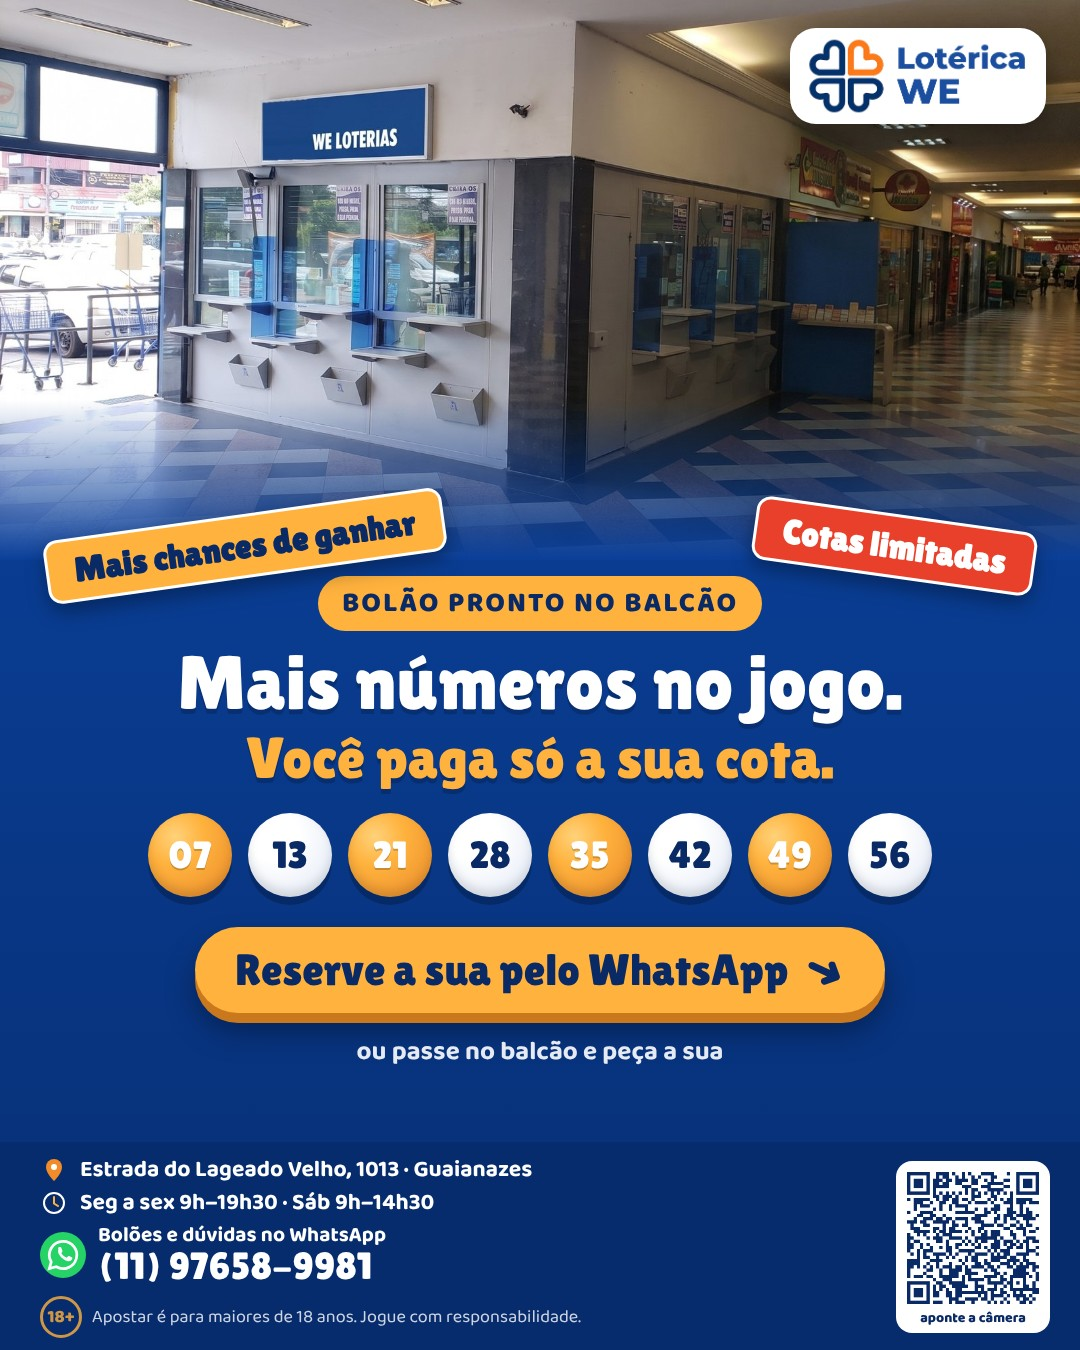
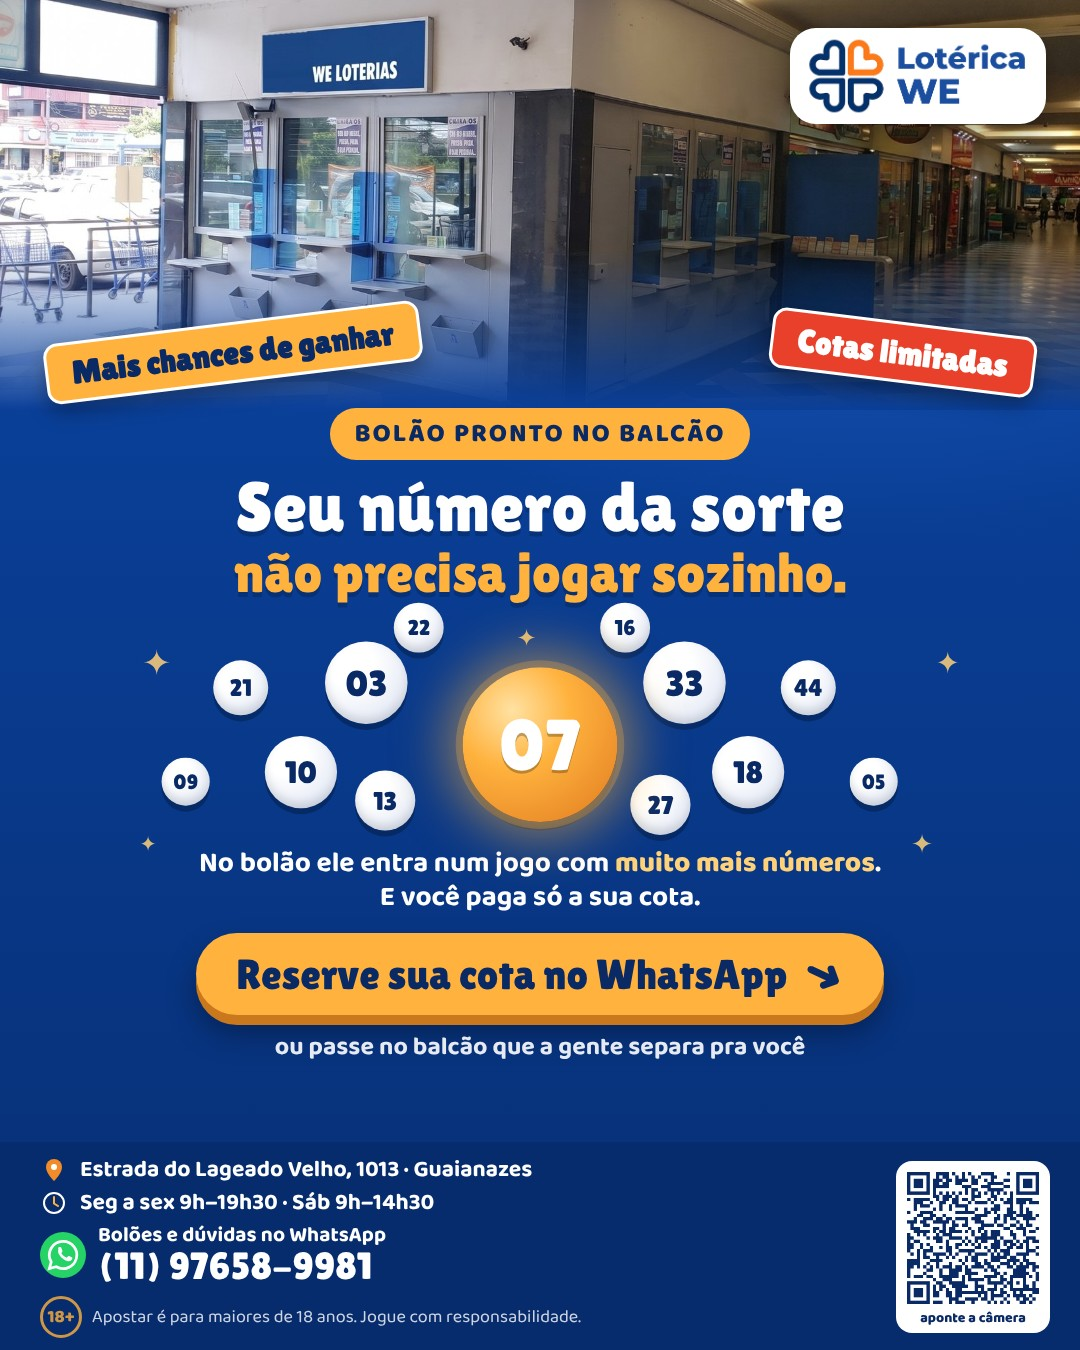
Peça de bolões: conceito "Seu número da sorte não precisa jogar sozinho"
Claude-Session: https://claude.ai/code/session_01Bxe7GpT3JXbyMSz1b7a84R

diff --git a/pecas-card/bolao_praca-xi.html b/pecas-card/bolao_praca-xi.html
@@ -44,15 +44,32 @@ body{padding:0;align-items:stretch;width:1080px;height:1350px}
 .btn{margin-top:30px;background:#FFB23E;color:#0A2A66;font-family:L;font-size:44px;padding:16px 40px;border-radius:60px;box-shadow:0 10px 0 #C9781E,0 18px 30px rgba(0,0,0,.35);display:flex;align-items:center;gap:18px}
 .btn b{font-size:46px;transform:rotate(25deg);display:inline-block}
 .ou{margin-top:18px;font-weight:700;font-size:26px;opacity:.9}
-.mk .tag.tl{right:auto;left:44px;transform:rotate(-8deg);background:#FFB23E;color:#0A2A66}</style></head><body>
+.mk .tag.tl{right:auto;left:44px;transform:rotate(-8deg);background:#FFB23E;color:#0A2A66}.q{margin-top:22px;font-family:L;font-size:38px;color:#fff}.mk .bolas{margin-top:12px;align-items:center}.bolas i.g{width:108px;height:108px;font-size:50px}.mk .tag{top:-78px}.mk .h{font-size:70px;margin-top:10px}.mk .h span{font-size:54px;margin-top:4px}.q{margin-top:16px}.btn{margin-top:24px}.ou{margin-top:14px}
+.ph{height:440px!important}
+.mk2{margin-top:-30px;justify-content:flex-start;padding-top:28px}
+.mk2 .tag{position:absolute;top:-58px;right:44px;transform:rotate(7deg);background:#E8402A;color:#fff;font-family:L;font-size:32px;padding:9px 24px;border-radius:14px;box-shadow:0 8px 20px rgba(0,0,0,.35);border:3px solid #fff;z-index:3}
+.mk2 .tag.tl{right:auto;left:44px;transform:rotate(-7deg);background:#FFB23E;color:#0A2A66}
+.mk2 .kick{font-size:26px}
+.mk2 .h{font-size:74px;line-height:.98;margin-top:12px}
+.mk2 .h span{display:block;color:#FFB23E;font-size:60px;margin-top:4px}
+.cons{position:relative;width:1000px;height:280px;margin-top:14px}
+.cons .b{position:absolute;font-style:normal;border-radius:50%;display:flex;align-items:center;justify-content:center;font-family:L;color:#0A2A66;background:radial-gradient(circle at 32% 28%,#fff 0,#fff 28%,#d6def0 100%);box-shadow:0 7px 0 rgba(0,0,0,.25),inset 0 -6px 10px rgba(0,0,0,.12)}
+.cons .b.sorte{color:#fff;background:radial-gradient(circle at 32% 28%,#FFE2A3 0,#FFB23E 38%,#E07A1F 100%);text-shadow:0 3px 0 rgba(0,0,0,.25);box-shadow:0 0 0 8px rgba(255,178,62,.25),0 0 60px 18px rgba(255,178,62,.55),0 10px 0 rgba(0,0,0,.25);z-index:2}
+.cons s{position:absolute;text-decoration:none;color:#FFD27A;font-size:34px;opacity:.85}
+.s2{font-weight:700;font-size:30px;line-height:1.2;margin-top:6px}.s2 b{color:#FFD27A}
+.mk2 .btn{margin-top:22px;background:#FFB23E;color:#0A2A66;font-family:L;font-size:44px;padding:16px 42px;border-radius:60px;box-shadow:0 10px 0 #C9781E,0 18px 30px rgba(0,0,0,.35);display:flex;align-items:center;gap:18px}
+.mk2 .btn b{font-size:46px;transform:rotate(25deg);display:inline-block}
+.mk2 .ou{margin-top:16px;font-weight:700;font-size:25px;opacity:.9}
+.ph{height:410px!important}.cons{height:280px;transform:scale(.86);transform-origin:top center;margin-bottom:-40px;margin-top:8px}.mk2 .h{font-size:70px}.mk2 .h span{font-size:56px}.s2{font-size:28px;margin-top:0}.mk2 .btn{margin-top:18px;font-size:42px;padding:14px 40px}.mk2 .ou{margin-top:12px}</style></head><body>
 <div class="ph" style="--ph:560px;background-image:url(__A__/foto_praca-xi.jpg);background-position:70% 52%;background-size:118%"><img class="lj" style="left:34px" src="__A__/logoloja_praca-xi.png"></div>
-<div class="mid mk">
+<div class="mid mk2">
 <div class="tag tl">Mais chances de ganhar</div><div class="tag">Cotas limitadas</div>
 <div class="kick">BOLÃO PRONTO NO BALCÃO</div>
-<div class="h">Mais números no jogo.<br><span>Você paga só a sua cota.</span></div>
-<div class="bolas"><i class="o">07</i><i class="">13</i><i class="o">21</i><i class="">28</i><i class="o">35</i><i class="">42</i><i class="o">49</i><i class="">56</i></div>
-<div class="btn">Reserve a sua pelo WhatsApp<b>➜</b></div>
-<div class="ou">ou passe no balcão e peça a sua</div>
+<div class="h">Seu número da sorte<span>não precisa jogar sozinho.</span></div>
+<div class="cons"><s style="left:40px;top:40px;transform:scale(1.2)">✦</s><s style="left:470px;top:10px;transform:scale(0.8)">✦</s><s style="left:960px;top:40px;transform:scale(1)">✦</s><s style="left:30px;top:250px;transform:scale(0.7)">✦</s><s style="left:930px;top:250px;transform:scale(0.9)">✦</s><i class="b sorte" style="left:410px;top:70px;width:180px;height:180px;font-size:84px">07</i><i class="b" style="left:250px;top:40px;width:96px;height:96px;font-size:42px">03</i><i class="b" style="left:180px;top:150px;width:84px;height:84px;font-size:36px">10</i><i class="b" style="left:285px;top:190px;width:70px;height:70px;font-size:30px">13</i><i class="b" style="left:120px;top:62px;width:64px;height:64px;font-size:28px">21</i><i class="b" style="left:60px;top:175px;width:56px;height:56px;font-size:24px">09</i><i class="b" style="left:330px;top:-5px;width:58px;height:58px;font-size:25px">22</i><i class="b" style="left:620px;top:40px;width:96px;height:96px;font-size:42px">33</i><i class="b" style="left:700px;top:150px;width:84px;height:84px;font-size:36px">18</i><i class="b" style="left:605px;top:195px;width:70px;height:70px;font-size:30px">27</i><i class="b" style="left:780px;top:62px;width:64px;height:64px;font-size:28px">44</i><i class="b" style="left:860px;top:175px;width:56px;height:56px;font-size:24px">05</i><i class="b" style="left:570px;top:-5px;width:58px;height:58px;font-size:25px">16</i></div>
+<div class="s2">No bolão ele entra num jogo com <b>muito mais números</b>.<br>E você paga só a sua cota.</div>
+<div class="btn">Reserve sua cota no WhatsApp<b>➜</b></div>
+<div class="ou">ou passe no balcão que a gente separa pra você</div>
 </div>
 <div class="bot"><div class="bl2"><div class="l"><svg viewBox="0 0 56 56" width="28" height="28"><path d="M28 50s16-15 16-28a16 16 0 10-32 0c0 13 16 28 16 28z" fill="#F28C28"/><circle cx="28" cy="22" r="6" fill="#fff"/></svg>Praça Rev. Mattathias Gomes dos Santos, 8 · Praça 11</div><div class="l"><svg viewBox="0 0 56 56" width="28" height="28"><circle cx="28" cy="28" r="20" fill="none" stroke="#fff" stroke-width="4"/><path d="M28 16v13l8 5" fill="none" stroke="#FFB23E" stroke-width="4" stroke-linecap="round"/></svg>Seg a sex 9h–17h45 · Sáb 8h30–14h</div>
 <div class="wa"><svg viewBox="0 0 32 32" width="46" height="46"><circle cx="16" cy="16" r="16" fill="#25D366"/><path d="M16 6.5a9.5 9.5 0 00-8.2 14.3L6.5 25.5l4.8-1.3A9.5 9.5 0 1016 6.5z" fill="none" stroke="#fff" stroke-width="1.9"/><path d="M12.6 11.2c.3-.7.7-.7 1-.7h.6c.2 0 .5.1.6.5l.8 2c.1.2 0 .5-.1.7l-.5.7c-.1.2-.1.4 0 .6.4.7 1 1.4 1.8 1.9.6.4 1.1.7 1.5.8.2.1.4 0 .6-.1l.7-.8c.2-.2.4-.2.6-.1l1.9.9c.3.1.4.3.4.5 0 .7-.4 1.5-1.2 1.9-.8.4-1.9.4-3.8-.4-2.2-1-3.8-3.2-4.3-4.1-.5-.9-.9-2.2-.4-3.4z" fill="#fff"/></svg><span>Bolões e dúvidas no WhatsApp<b>(11) 96048-0263</b></span></div>

diff --git a/pecas-card/bolao_tomazini.html b/pecas-card/bolao_tomazini.html
@@ -44,15 +44,32 @@ body{padding:0;align-items:stretch;width:1080px;height:1350px}
 .btn{margin-top:30px;background:#FFB23E;color:#0A2A66;font-family:L;font-size:44px;padding:16px 40px;border-radius:60px;box-shadow:0 10px 0 #C9781E,0 18px 30px rgba(0,0,0,.35);display:flex;align-items:center;gap:18px}
 .btn b{font-size:46px;transform:rotate(25deg);display:inline-block}
 .ou{margin-top:18px;font-weight:700;font-size:26px;opacity:.9}
-.mk .tag.tl{right:auto;left:44px;transform:rotate(-8deg);background:#FFB23E;color:#0A2A66}</style></head><body>
+.mk .tag.tl{right:auto;left:44px;transform:rotate(-8deg);background:#FFB23E;color:#0A2A66}.q{margin-top:22px;font-family:L;font-size:38px;color:#fff}.mk .bolas{margin-top:12px;align-items:center}.bolas i.g{width:108px;height:108px;font-size:50px}.mk .tag{top:-78px}.mk .h{font-size:70px;margin-top:10px}.mk .h span{font-size:54px;margin-top:4px}.q{margin-top:16px}.btn{margin-top:24px}.ou{margin-top:14px}
+.ph{height:440px!important}
+.mk2{margin-top:-30px;justify-content:flex-start;padding-top:28px}
+.mk2 .tag{position:absolute;top:-58px;right:44px;transform:rotate(7deg);background:#E8402A;color:#fff;font-family:L;font-size:32px;padding:9px 24px;border-radius:14px;box-shadow:0 8px 20px rgba(0,0,0,.35);border:3px solid #fff;z-index:3}
+.mk2 .tag.tl{right:auto;left:44px;transform:rotate(-7deg);background:#FFB23E;color:#0A2A66}
+.mk2 .kick{font-size:26px}
+.mk2 .h{font-size:74px;line-height:.98;margin-top:12px}
+.mk2 .h span{display:block;color:#FFB23E;font-size:60px;margin-top:4px}
+.cons{position:relative;width:1000px;height:280px;margin-top:14px}
+.cons .b{position:absolute;font-style:normal;border-radius:50%;display:flex;align-items:center;justify-content:center;font-family:L;color:#0A2A66;background:radial-gradient(circle at 32% 28%,#fff 0,#fff 28%,#d6def0 100%);box-shadow:0 7px 0 rgba(0,0,0,.25),inset 0 -6px 10px rgba(0,0,0,.12)}
+.cons .b.sorte{color:#fff;background:radial-gradient(circle at 32% 28%,#FFE2A3 0,#FFB23E 38%,#E07A1F 100%);text-shadow:0 3px 0 rgba(0,0,0,.25);box-shadow:0 0 0 8px rgba(255,178,62,.25),0 0 60px 18px rgba(255,178,62,.55),0 10px 0 rgba(0,0,0,.25);z-index:2}
+.cons s{position:absolute;text-decoration:none;color:#FFD27A;font-size:34px;opacity:.85}
+.s2{font-weight:700;font-size:30px;line-height:1.2;margin-top:6px}.s2 b{color:#FFD27A}
+.mk2 .btn{margin-top:22px;background:#FFB23E;color:#0A2A66;font-family:L;font-size:44px;padding:16px 42px;border-radius:60px;box-shadow:0 10px 0 #C9781E,0 18px 30px rgba(0,0,0,.35);display:flex;align-items:center;gap:18px}
+.mk2 .btn b{font-size:46px;transform:rotate(25deg);display:inline-block}
+.mk2 .ou{margin-top:16px;font-weight:700;font-size:25px;opacity:.9}
+.ph{height:410px!important}.cons{height:280px;transform:scale(.86);transform-origin:top center;margin-bottom:-40px;margin-top:8px}.mk2 .h{font-size:70px}.mk2 .h span{font-size:56px}.s2{font-size:28px;margin-top:0}.mk2 .btn{margin-top:18px;font-size:42px;padding:14px 40px}.mk2 .ou{margin-top:12px}</style></head><body>
 <div class="ph" style="--ph:560px;background-image:url(__A__/foto_tomazini.jpg);background-position:60% 76%;background-size:112%"><img class="lj" style="right:34px" src="__A__/logoloja_tomazini.png"></div>
-<div class="mid mk">
+<div class="mid mk2">
 <div class="tag tl">Mais chances de ganhar</div><div class="tag">Cotas limitadas</div>
 <div class="kick">BOLÃO PRONTO NO BALCÃO</div>
-<div class="h">Mais números no jogo.<br><span>Você paga só a sua cota.</span></div>
-<div class="bolas"><i class="o">07</i><i class="">13</i><i class="o">21</i><i class="">28</i><i class="o">35</i><i class="">42</i><i class="o">49</i><i class="">56</i></div>
-<div class="btn">Reserve a sua pelo WhatsApp<b>➜</b></div>
-<div class="ou">ou passe no balcão e peça a sua</div>
+<div class="h">Seu número da sorte<span>não precisa jogar sozinho.</span></div>
+<div class="cons"><s style="left:40px;top:40px;transform:scale(1.2)">✦</s><s style="left:470px;top:10px;transform:scale(0.8)">✦</s><s style="left:960px;top:40px;transform:scale(1)">✦</s><s style="left:30px;top:250px;transform:scale(0.7)">✦</s><s style="left:930px;top:250px;transform:scale(0.9)">✦</s><i class="b sorte" style="left:410px;top:70px;width:180px;height:180px;font-size:84px">07</i><i class="b" style="left:250px;top:40px;width:96px;height:96px;font-size:42px">03</i><i class="b" style="left:180px;top:150px;width:84px;height:84px;font-size:36px">10</i><i class="b" style="left:285px;top:190px;width:70px;height:70px;font-size:30px">13</i><i class="b" style="left:120px;top:62px;width:64px;height:64px;font-size:28px">21</i><i class="b" style="left:60px;top:175px;width:56px;height:56px;font-size:24px">09</i><i class="b" style="left:330px;top:-5px;width:58px;height:58px;font-size:25px">22</i><i class="b" style="left:620px;top:40px;width:96px;height:96px;font-size:42px">33</i><i class="b" style="left:700px;top:150px;width:84px;height:84px;font-size:36px">18</i><i class="b" style="left:605px;top:195px;width:70px;height:70px;font-size:30px">27</i><i class="b" style="left:780px;top:62px;width:64px;height:64px;font-size:28px">44</i><i class="b" style="left:860px;top:175px;width:56px;height:56px;font-size:24px">05</i><i class="b" style="left:570px;top:-5px;width:58px;height:58px;font-size:25px">16</i></div>
+<div class="s2">No bolão ele entra num jogo com <b>muito mais números</b>.<br>E você paga só a sua cota.</div>
+<div class="btn">Reserve sua cota no WhatsApp<b>➜</b></div>
+<div class="ou">ou passe no balcão que a gente separa pra você</div>
 </div>
 <div class="bot"><div class="bl2"><div class="l"><svg viewBox="0 0 56 56" width="28" height="28"><path d="M28 50s16-15 16-28a16 16 0 10-32 0c0 13 16 28 16 28z" fill="#F28C28"/><circle cx="28" cy="22" r="6" fill="#fff"/></svg>Av. Boturussu, 2074 · Centro de Ermelino Matarazzo</div><div class="l"><svg viewBox="0 0 56 56" width="28" height="28"><circle cx="28" cy="28" r="20" fill="none" stroke="#fff" stroke-width="4"/><path d="M28 16v13l8 5" fill="none" stroke="#FFB23E" stroke-width="4" stroke-linecap="round"/></svg>Seg a sex 9h–17h30 · Sáb 9h–14h30</div>
 <div class="wa"><svg viewBox="0 0 32 32" width="46" height="46"><circle cx="16" cy="16" r="16" fill="#25D366"/><path d="M16 6.5a9.5 9.5 0 00-8.2 14.3L6.5 25.5l4.8-1.3A9.5 9.5 0 1016 6.5z" fill="none" stroke="#fff" stroke-width="1.9"/><path d="M12.6 11.2c.3-.7.7-.7 1-.7h.6c.2 0 .5.1.6.5l.8 2c.1.2 0 .5-.1.7l-.5.7c-.1.2-.1.4 0 .6.4.7 1 1.4 1.8 1.9.6.4 1.1.7 1.5.8.2.1.4 0 .6-.1l.7-.8c.2-.2.4-.2.6-.1l1.9.9c.3.1.4.3.4.5 0 .7-.4 1.5-1.2 1.9-.8.4-1.9.4-3.8-.4-2.2-1-3.8-3.2-4.3-4.1-.5-.9-.9-2.2-.4-3.4z" fill="#fff"/></svg><span>Bolões e dúvidas no WhatsApp<b>(11) 97896-2327</b></span></div>

diff --git a/pecas-card/bolao_we.html b/pecas-card/bolao_we.html
@@ -44,15 +44,32 @@ body{padding:0;align-items:stretch;width:1080px;height:1350px}
 .btn{margin-top:30px;background:#FFB23E;color:#0A2A66;font-family:L;font-size:44px;padding:16px 40px;border-radius:60px;box-shadow:0 10px 0 #C9781E,0 18px 30px rgba(0,0,0,.35);display:flex;align-items:center;gap:18px}
 .btn b{font-size:46px;transform:rotate(25deg);display:inline-block}
 .ou{margin-top:18px;font-weight:700;font-size:26px;opacity:.9}
-.mk .tag.tl{right:auto;left:44px;transform:rotate(-8deg);background:#FFB23E;color:#0A2A66}</style></head><body>
+.mk .tag.tl{right:auto;left:44px;transform:rotate(-8deg);background:#FFB23E;color:#0A2A66}.q{margin-top:22px;font-family:L;font-size:38px;color:#fff}.mk .bolas{margin-top:12px;align-items:center}.bolas i.g{width:108px;height:108px;font-size:50px}.mk .tag{top:-78px}.mk .h{font-size:70px;margin-top:10px}.mk .h span{font-size:54px;margin-top:4px}.q{margin-top:16px}.btn{margin-top:24px}.ou{margin-top:14px}
+.ph{height:440px!important}
+.mk2{margin-top:-30px;justify-content:flex-start;padding-top:28px}
+.mk2 .tag{position:absolute;top:-58px;right:44px;transform:rotate(7deg);background:#E8402A;color:#fff;font-family:L;font-size:32px;padding:9px 24px;border-radius:14px;box-shadow:0 8px 20px rgba(0,0,0,.35);border:3px solid #fff;z-index:3}
+.mk2 .tag.tl{right:auto;left:44px;transform:rotate(-7deg);background:#FFB23E;color:#0A2A66}
+.mk2 .kick{font-size:26px}
+.mk2 .h{font-size:74px;line-height:.98;margin-top:12px}
+.mk2 .h span{display:block;color:#FFB23E;font-size:60px;margin-top:4px}
+.cons{position:relative;width:1000px;height:280px;margin-top:14px}
+.cons .b{position:absolute;font-style:normal;border-radius:50%;display:flex;align-items:center;justify-content:center;font-family:L;color:#0A2A66;background:radial-gradient(circle at 32% 28%,#fff 0,#fff 28%,#d6def0 100%);box-shadow:0 7px 0 rgba(0,0,0,.25),inset 0 -6px 10px rgba(0,0,0,.12)}
+.cons .b.sorte{color:#fff;background:radial-gradient(circle at 32% 28%,#FFE2A3 0,#FFB23E 38%,#E07A1F 100%);text-shadow:0 3px 0 rgba(0,0,0,.25);box-shadow:0 0 0 8px rgba(255,178,62,.25),0 0 60px 18px rgba(255,178,62,.55),0 10px 0 rgba(0,0,0,.25);z-index:2}
+.cons s{position:absolute;text-decoration:none;color:#FFD27A;font-size:34px;opacity:.85}
+.s2{font-weight:700;font-size:30px;line-height:1.2;margin-top:6px}.s2 b{color:#FFD27A}
+.mk2 .btn{margin-top:22px;background:#FFB23E;color:#0A2A66;font-family:L;font-size:44px;padding:16px 42px;border-radius:60px;box-shadow:0 10px 0 #C9781E,0 18px 30px rgba(0,0,0,.35);display:flex;align-items:center;gap:18px}
+.mk2 .btn b{font-size:46px;transform:rotate(25deg);display:inline-block}
+.mk2 .ou{margin-top:16px;font-weight:700;font-size:25px;opacity:.9}
+.ph{height:410px!important}.cons{height:280px;transform:scale(.86);transform-origin:top center;margin-bottom:-40px;margin-top:8px}.mk2 .h{font-size:70px}.mk2 .h span{font-size:56px}.s2{font-size:28px;margin-top:0}.mk2 .btn{margin-top:18px;font-size:42px;padding:14px 40px}.mk2 .ou{margin-top:12px}</style></head><body>
 <div class="ph" style="--ph:560px;background-image:url(__A__/foto_we.jpg);background-position:35% 45%;background-size:cover"><img class="lj" style="right:34px" src="__A__/logoloja_we.png"></div>
-<div class="mid mk">
+<div class="mid mk2">
 <div class="tag tl">Mais chances de ganhar</div><div class="tag">Cotas limitadas</div>
 <div class="kick">BOLÃO PRONTO NO BALCÃO</div>
-<div class="h">Mais números no jogo.<br><span>Você paga só a sua cota.</span></div>
-<div class="bolas"><i class="o">07</i><i class="">13</i><i class="o">21</i><i class="">28</i><i class="o">35</i><i class="">42</i><i class="o">49</i><i class="">56</i></div>
-<div class="btn">Reserve a sua pelo WhatsApp<b>➜</b></div>
-<div class="ou">ou passe no balcão e peça a sua</div>
+<div class="h">Seu número da sorte<span>não precisa jogar sozinho.</span></div>
+<div class="cons"><s style="left:40px;top:40px;transform:scale(1.2)">✦</s><s style="left:470px;top:10px;transform:scale(0.8)">✦</s><s style="left:960px;top:40px;transform:scale(1)">✦</s><s style="left:30px;top:250px;transform:scale(0.7)">✦</s><s style="left:930px;top:250px;transform:scale(0.9)">✦</s><i class="b sorte" style="left:410px;top:70px;width:180px;height:180px;font-size:84px">07</i><i class="b" style="left:250px;top:40px;width:96px;height:96px;font-size:42px">03</i><i class="b" style="left:180px;top:150px;width:84px;height:84px;font-size:36px">10</i><i class="b" style="left:285px;top:190px;width:70px;height:70px;font-size:30px">13</i><i class="b" style="left:120px;top:62px;width:64px;height:64px;font-size:28px">21</i><i class="b" style="left:60px;top:175px;width:56px;height:56px;font-size:24px">09</i><i class="b" style="left:330px;top:-5px;width:58px;height:58px;font-size:25px">22</i><i class="b" style="left:620px;top:40px;width:96px;height:96px;font-size:42px">33</i><i class="b" style="left:700px;top:150px;width:84px;height:84px;font-size:36px">18</i><i class="b" style="left:605px;top:195px;width:70px;height:70px;font-size:30px">27</i><i class="b" style="left:780px;top:62px;width:64px;height:64px;font-size:28px">44</i><i class="b" style="left:860px;top:175px;width:56px;height:56px;font-size:24px">05</i><i class="b" style="left:570px;top:-5px;width:58px;height:58px;font-size:25px">16</i></div>
+<div class="s2">No bolão ele entra num jogo com <b>muito mais números</b>.<br>E você paga só a sua cota.</div>
+<div class="btn">Reserve sua cota no WhatsApp<b>➜</b></div>
+<div class="ou">ou passe no balcão que a gente separa pra você</div>
 </div>
 <div class="bot"><div class="bl2"><div class="l"><svg viewBox="0 0 56 56" width="28" height="28"><path d="M28 50s16-15 16-28a16 16 0 10-32 0c0 13 16 28 16 28z" fill="#F28C28"/><circle cx="28" cy="22" r="6" fill="#fff"/></svg>Estrada do Lageado Velho, 1013 · Guaianazes</div><div class="l"><svg viewBox="0 0 56 56" width="28" height="28"><circle cx="28" cy="28" r="20" fill="none" stroke="#fff" stroke-width="4"/><path d="M28 16v13l8 5" fill="none" stroke="#FFB23E" stroke-width="4" stroke-linecap="round"/></svg>Seg a sex 9h–19h30 · Sáb 9h–14h30</div>
 <div class="wa"><svg viewBox="0 0 32 32" width="46" height="46"><circle cx="16" cy="16" r="16" fill="#25D366"/><path d="M16 6.5a9.5 9.5 0 00-8.2 14.3L6.5 25.5l4.8-1.3A9.5 9.5 0 1016 6.5z" fill="none" stroke="#fff" stroke-width="1.9"/><path d="M12.6 11.2c.3-.7.7-.7 1-.7h.6c.2 0 .5.1.6.5l.8 2c.1.2 0 .5-.1.7l-.5.7c-.1.2-.1.4 0 .6.4.7 1 1.4 1.8 1.9.6.4 1.1.7 1.5.8.2.1.4 0 .6-.1l.7-.8c.2-.2.4-.2.6-.1l1.9.9c.3.1.4.3.4.5 0 .7-.4 1.5-1.2 1.9-.8.4-1.9.4-3.8-.4-2.2-1-3.8-3.2-4.3-4.1-.5-.9-.9-2.2-.4-3.4z" fill="#fff"/></svg><span>Bolões e dúvidas no WhatsApp<b>(11) 97658-9981</b></span></div>
